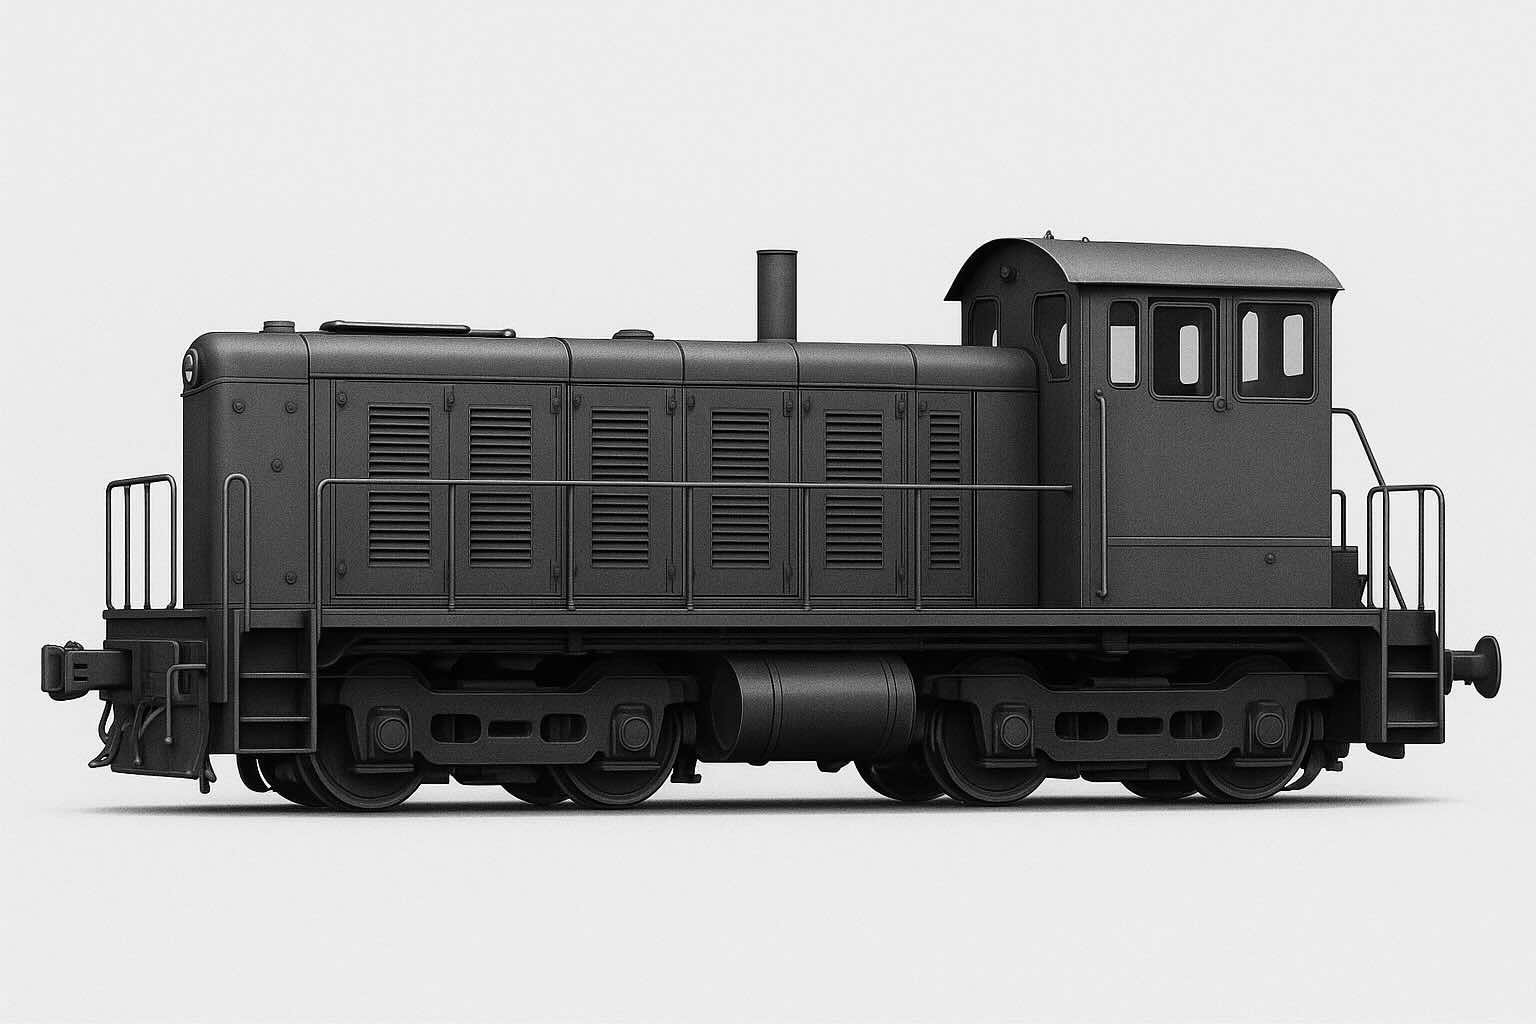
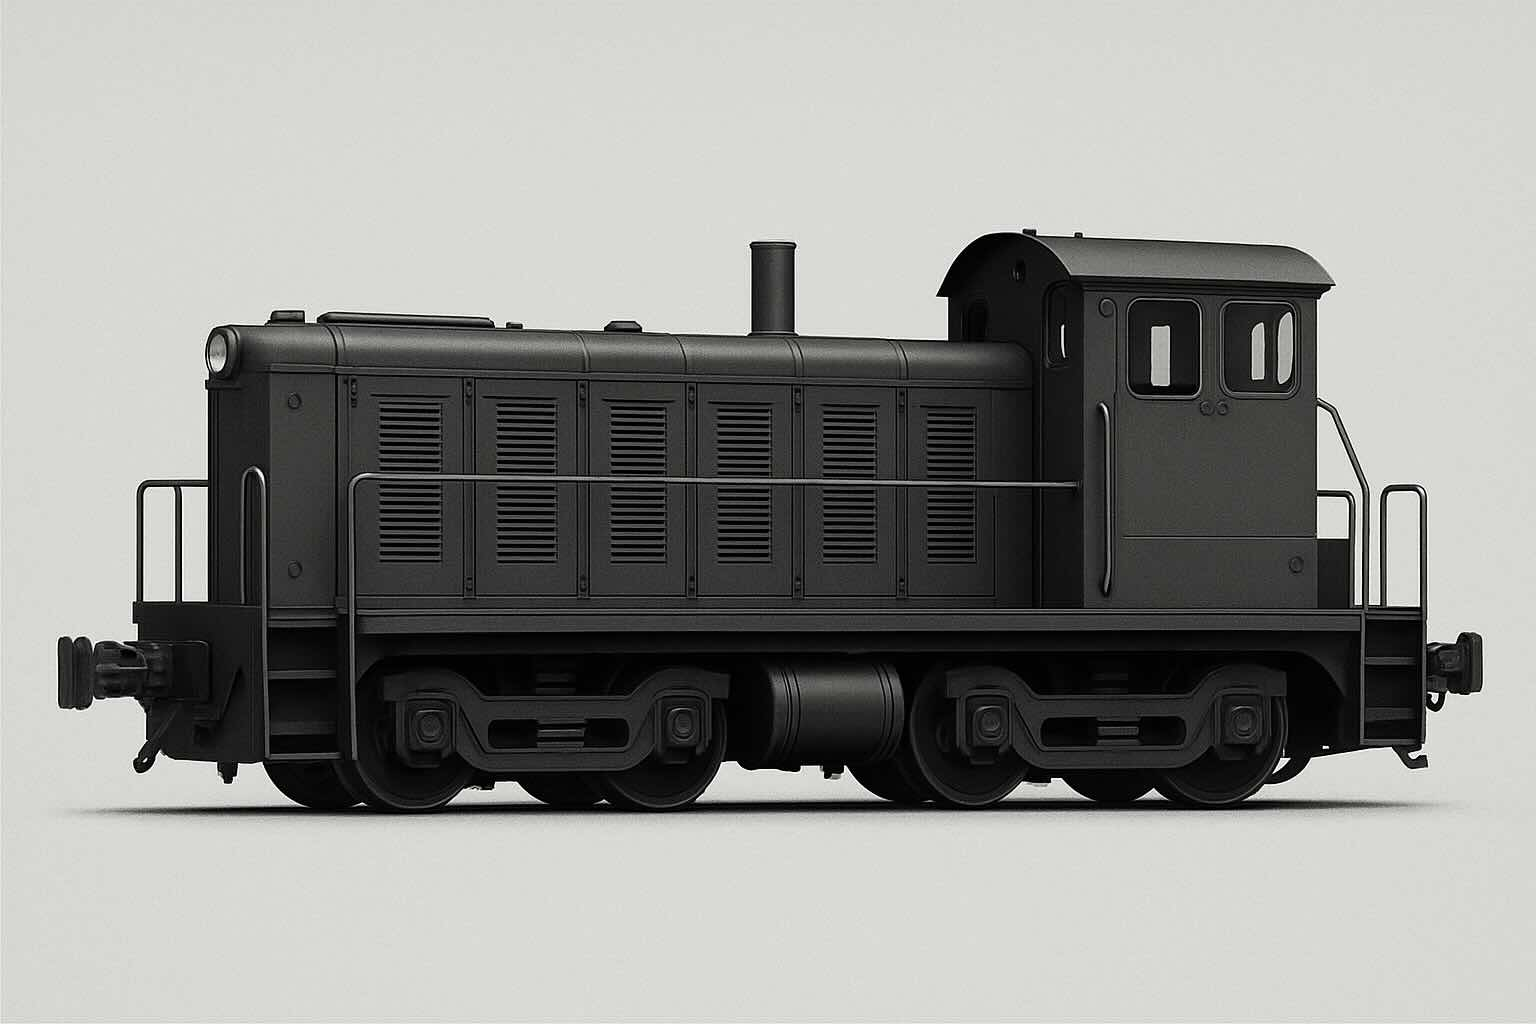
Add generic railroad images

diff --git a/src/pytrain/gui/engine_gui.py b/src/pytrain/gui/engine_gui.py
@@ -313,7 +313,7 @@ KEY_TO_COMMAND = {
 ENGINE_TYPE_TO_IMAGE = {
     EngineType.DIESEL: find_file("generic_diesel.jpg"),
     EngineType.DIESEL_PULLMOR: find_file("generic_diesel.jpg"),
-    EngineType.DIESEL_SWITCHER: find_file("generic_steam_switcher.jpg"),
+    EngineType.DIESEL_SWITCHER: find_file("generic_diesel_switcher.jpg"),
     EngineType.FREIGHT_SOUNDS: find_file("generic_freight.jpg"),
     EngineType.STEAM: find_file("generic_steam_santa.jpg"),
     EngineType.STEAM_PULLMOR: find_file("generic_steam_santa.jpg"),
